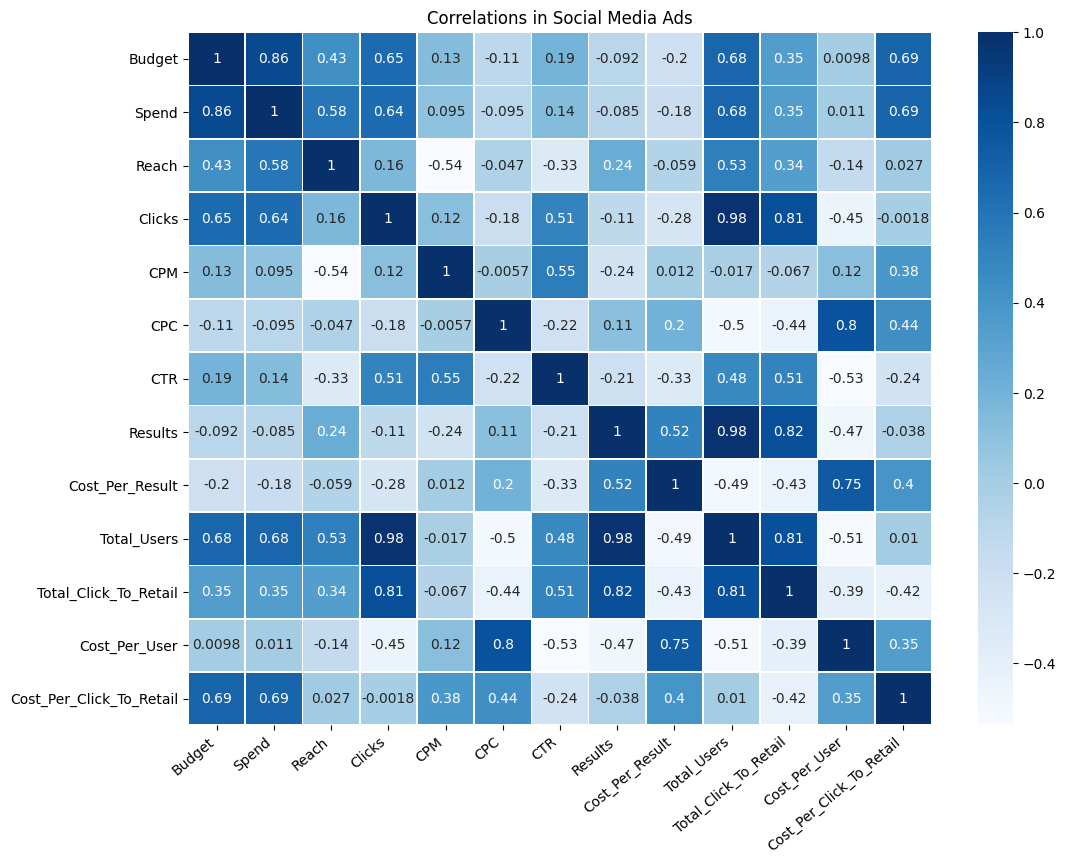
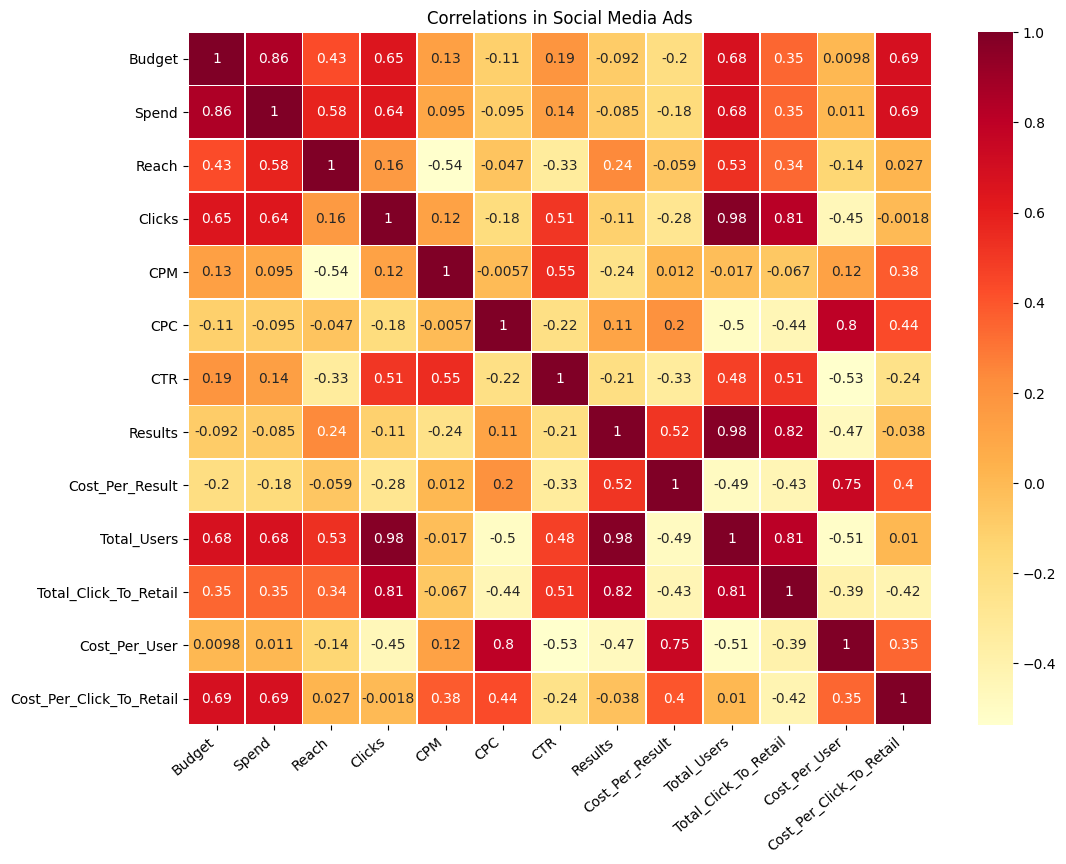
Creates charts for correlation

diff --git a/src/Monisha/social_media_ads/2020/analysis/analysis.py b/src/Monisha/social_media_ads/2020/analysis/analysis.py
@@ -110,7 +110,7 @@ plt.savefig('chart_for_objectives.png', bbox_inches='tight')
 #chart for correlation heatmap
 all_data_corr = all_data.corr()
 plt.figure(figsize=(12,9))
-Corr_Heat_Map = sns.heatmap(all_data_corr, annot=True, cmap='Blues', linewidths=.5)
+Corr_Heat_Map = sns.heatmap(all_data_corr, annot=True, cmap='YlOrRd', linewidths=.5)
 Corr_Heat_Map.set_title('Correlations in Social Media Ads')
 plt.xticks(rotation=40, horizontalalignment='right')
 plt.savefig('chart_for_correlation.png', bbox_inches='tight')
